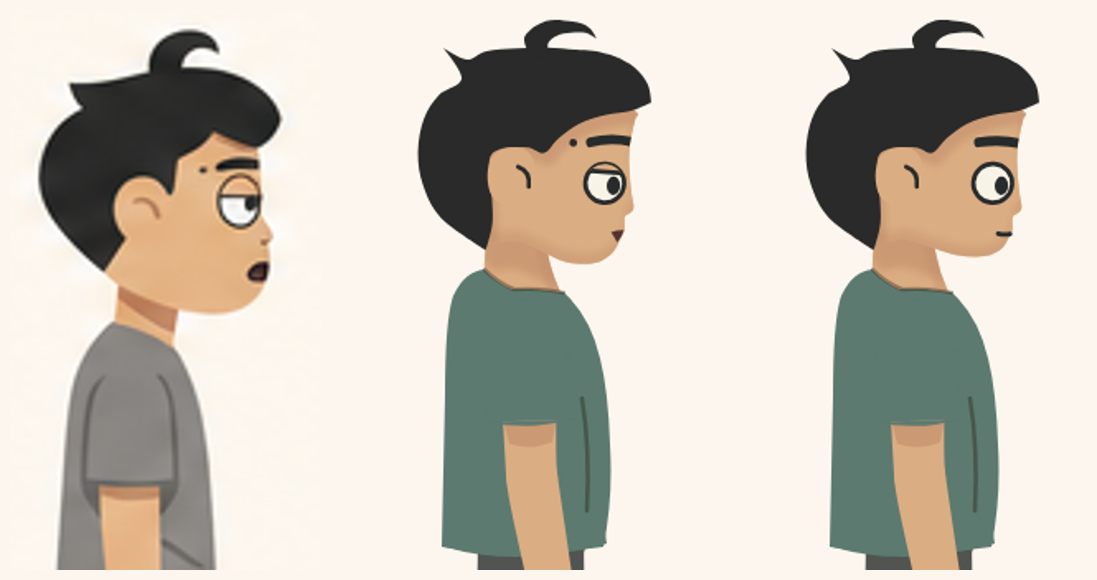
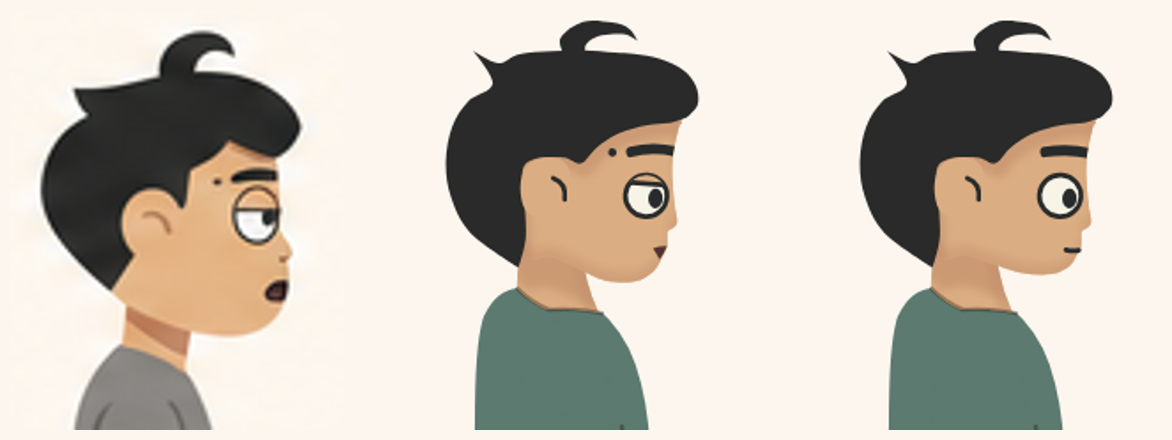
Hồ sơ 02: mái tóc Nam/Người Kia nghiêng tròn, có mũi cong xuống như mẫu
Phần mái trước bị cắt thẳng đứng, mép dưới phẳng; nay là khối tròn nhô ra trước rồi cong xuống thành mũi nhọn thấp.

Claude-Session: https://claude.ai/code/session_01SK73tBnSQF4kxa4AZiXrY1

diff --git a/episodes/hem-co-chuyen/ho-so-02-nguoi-lam-thay/assets/nhan-vat.tsx b/episodes/hem-co-chuyen/ho-so-02-nguoi-lam-thay/assets/nhan-vat.tsx
@@ -1138,7 +1138,7 @@ const TungProfileHead: React.FC<{ mood: 'annoyed' | 'calm'; clip: string; talk?:
  * mái hất ra trước theo mẫu. Bóng vẽ tay làm mềm bằng blur (mép ngoài cắt theo hình bao). Đầu nghiêng đã chốt (`ProfileHead`) giữ nguyên cho dáng cũ.
  */
 const NAM_SIDE = {
-  hair: 'M 59.1 51.1 C 59.1 51.1 58.2 44.1 56.4 40.9 C 54.6 37.7 51.4 34.4 48.2 32.0 C 45.0 29.6 41.0 27.9 37.0 26.6 C 33.0 25.3 28.2 24.6 24.4 24.2 C 20.6 23.8 18.6 24.2 14.2 24.2 C 9.8 24.2 3.4 23.9 -2.1 24.2 C -7.6 24.5 -13.4 25.2 -19.1 25.9 C -24.8 26.6 -31.5 27.2 -36.1 28.6 C -40.8 30.0 -42.9 34.1 -47.0 34.1 C -51.1 34.1 -60.6 28.6 -60.6 28.6 C -60.6 28.6 -48.9 40.6 -49.0 45.0 C -49.1 49.4 -57.9 51.2 -61.2 55.2 C -64.5 59.2 -67.1 63.7 -68.7 69.1 C -70.3 74.5 -71.1 81.6 -70.8 87.8 C -70.5 94.0 -69.3 100.4 -66.7 106.5 C -64.1 112.6 -61.5 118.8 -55.1 124.5 C -48.8 130.2 -28.6 140.8 -28.6 140.8 C -28.6 140.8 -26.0 131.1 -25.9 125.2 C -25.8 119.3 -27.2 111.5 -27.9 105.5 C -28.6 99.5 -30.7 93.0 -30.0 89.2 C -29.3 85.5 -27.3 84.3 -23.8 83.0 C -20.3 81.7 -13.0 81.2 -8.9 81.3 C -4.8 81.4 -2.2 84.8 0.6 83.7 C 3.4 82.6 5.0 77.9 8.1 74.9 C 11.2 72.0 14.7 68.5 19.0 66.0 C 23.3 63.5 29.1 61.5 34.0 59.9 C 38.9 58.3 44.0 58.0 48.2 56.5 C 52.4 55.0 59.1 51.1 59.1 51.1 Z',
+  hair: 'M 54.4 55.8 C 54.4 55.8 59.2 51.2 59.8 48.4 C 60.4 45.6 59.6 41.7 58.1 38.8 C 56.6 35.9 54.4 33.1 51.0 31.0 C 47.6 28.9 42.4 27.0 38.0 25.9 C 33.6 24.8 28.4 24.5 24.4 24.2 C 20.4 23.9 18.6 24.2 14.2 24.2 C 9.8 24.2 3.4 23.9 -2.1 24.2 C -7.6 24.5 -13.4 25.2 -19.1 25.9 C -24.8 26.6 -31.5 27.2 -36.1 28.6 C -40.8 30.0 -42.9 34.1 -47.0 34.1 C -51.1 34.1 -60.6 28.6 -60.6 28.6 C -60.6 28.6 -48.9 40.6 -49.0 45.0 C -49.1 49.4 -57.9 51.2 -61.2 55.2 C -64.5 59.2 -67.1 63.7 -68.7 69.1 C -70.3 74.5 -71.1 81.6 -70.8 87.8 C -70.5 94.0 -69.3 100.4 -66.7 106.5 C -64.1 112.6 -61.5 118.8 -55.1 124.5 C -48.8 130.2 -28.6 140.8 -28.6 140.8 C -28.6 140.8 -26.0 131.1 -25.9 125.2 C -25.8 119.3 -27.2 111.5 -27.9 105.5 C -28.6 99.5 -30.7 93.0 -30.0 89.2 C -29.3 85.5 -27.3 84.3 -23.8 83.0 C -20.3 81.7 -13.0 81.2 -8.9 81.3 C -4.8 81.4 -2.2 84.8 0.6 83.7 C 3.4 82.6 5.0 77.7 8.1 74.9 C 11.2 72.1 14.7 69.0 19.0 66.7 C 23.3 64.4 29.6 62.5 34.0 61.3 C 38.4 60.0 42.1 60.1 45.5 59.2 C 48.9 58.3 54.4 55.8 54.4 55.8 Z',
   curl: 'M -11.6 23.9 C -11.6 23.9 -16.3 17.0 -15.0 13.7 C -13.7 10.4 -8.2 5.9 -3.8 4.2 C 0.6 2.5 7.4 3.2 11.5 3.5 C 15.6 3.8 18.6 4.7 21.0 6.2 C 23.4 7.7 25.8 12.3 25.8 12.3 C 25.8 12.3 21.5 9.7 19.0 9.3 C 16.5 8.9 13.4 9.5 10.8 9.9 C 8.2 10.3 5.4 10.9 3.4 12.0 C 1.4 13.1 -0.5 14.4 -1.4 16.4 C -2.3 18.4 -0.4 22.9 -2.1 24.2 C -3.8 25.4 -11.6 23.9 -11.6 23.9 Z',
   ear: 'M -30.6 98.7 C -30.8 95.0 -30.3 90.5 -28.6 87.8 C -26.9 85.1 -23.6 83.2 -20.4 82.4 C -17.2 81.6 -12.3 81.5 -9.6 83.0 C -6.9 84.5 -4.9 88.0 -4.1 91.2 C -3.3 94.4 -3.8 98.8 -4.8 102.1 C -5.8 105.4 -7.8 108.9 -10.2 110.9 C -12.6 112.9 -16.3 114.4 -19.1 114.3 C -21.9 114.2 -25.3 112.8 -27.2 110.2 C -29.1 107.6 -30.4 102.4 -30.6 98.7 Z',
   earLine: 'M -13.6 92.6 Q -6.2 94.6 -6.8 103.4',
